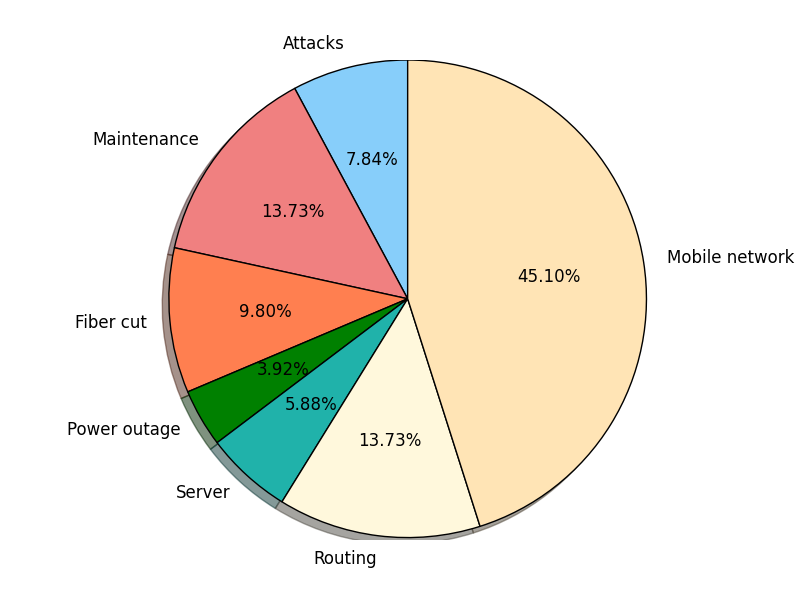
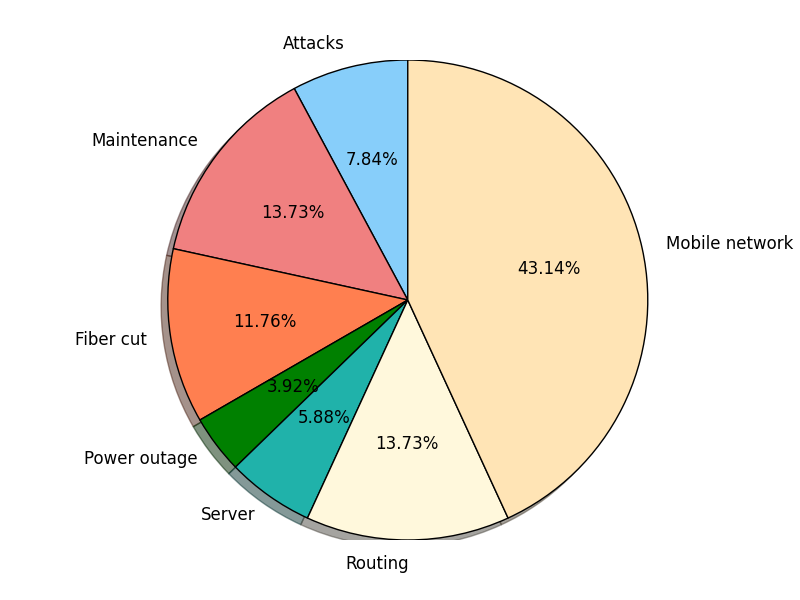
Site updated at 2015-05-07 03:51:13 UTC

diff --git a/members/index.html b/members/index.html
@@ -9,7 +9,7 @@
 
 <meta name="author" content="Guanyu Zhu, Wei-Ting Lin, Zhaowei Sun"> 
 
-<meta name="description" content="Team Members Guanyu Zhu &#x7a;&#x68;&#x75;&#103;&#x75;&#x61;&#110;&#121;&#x75;&#50;&#48;&#x31;&#48;&#64;&#103;&#109;&#97;&#105;&#108;&#x2e;&#99;&#x6f &hellip;"> <meta name="keywords" content="">
+<meta name="description" content="Team Members Guanyu Zhu &#122;&#x68;&#117;&#x67;&#117;&#x61;&#110;&#121;&#x75;&#50;&#48;&#49;&#x30;&#64;&#x67;&#x6d;&#x61;&#x69;&#x6c;&#46;&#99;&#111 &hellip;"> <meta name="keywords" content="">
 
 	<meta name="viewport" content="width=device-width, initial-scale=1, maximum-scale=1">
 	<link href="/fundamental_of_network/atom.xml" rel="alternate" title="CSE534 Fundamental of Network Project" type="application/atom+xml">
@@ -133,7 +133,7 @@ $(document).ready(
 
 <h3><strong><a href="http://www.cs.stonybrook.edu/~gzhu" style="color:black">Guanyu Zhu</a></strong></h3>
 
-<p><a href="mailto:zhuguanyu2010@gmail.com"><a href="&#109;&#x61;&#x69;&#108;&#x74;&#111;&#58;&#122;&#x68;&#117;&#103;&#117;&#97;&#110;&#121;&#x75;&#50;&#48;&#x31;&#48;&#x40;&#103;&#109;&#97;&#x69;&#x6c;&#46;&#x63;&#111;&#109;">&#x7a;&#x68;&#x75;&#103;&#x75;&#x61;&#110;&#121;&#x75;&#50;&#48;&#x31;&#48;&#64;&#103;&#109;&#97;&#105;&#108;&#x2e;&#99;&#x6f;&#x6d;</a></a></p>
+<p><a href="mailto:zhuguanyu2010@gmail.com"><a href="&#x6d;&#97;&#105;&#x6c;&#x74;&#x6f;&#x3a;&#122;&#104;&#117;&#103;&#x75;&#97;&#x6e;&#x79;&#x75;&#50;&#48;&#49;&#48;&#x40;&#x67;&#x6d;&#97;&#x69;&#x6c;&#46;&#99;&#x6f;&#109;">&#122;&#x68;&#117;&#x67;&#117;&#x61;&#110;&#121;&#x75;&#50;&#48;&#49;&#x30;&#64;&#x67;&#x6d;&#x61;&#x69;&#x6c;&#46;&#99;&#111;&#x6d;</a></a></p>
 
 <p height="300" style="margin-bottom: 5em;">
 Guanyu Zhu is currently a master student of Computer Science at Stony Brook University (01/2014-present). He completed his bachelor&#8217;s degree in Software Engineering from Jilin University(09/2009-06/2013).</br></br>
@@ -145,7 +145,7 @@ Apart from research and academics, He enjoys playing basketball, hiking and trav
 
 <h3><strong>Wei-Ting Lin</strong></h3>
 
-<p><a href="mailto:wei-ting.lin@stonybrook.edu"><a href="&#x6d;&#97;&#105;&#108;&#116;&#111;&#58;&#119;&#x65;&#x69;&#45;&#x74;&#x69;&#x6e;&#103;&#x2e;&#108;&#105;&#x6e;&#64;&#115;&#x74;&#111;&#110;&#x79;&#98;&#114;&#x6f;&#x6f;&#x6b;&#46;&#101;&#x64;&#x75;">&#119;&#x65;&#x69;&#45;&#116;&#105;&#110;&#103;&#x2e;&#x6c;&#x69;&#x6e;&#64;&#x73;&#x74;&#x6f;&#x6e;&#x79;&#98;&#x72;&#x6f;&#111;&#107;&#x2e;&#x65;&#x64;&#x75;</a></a></p>
+<p><a href="mailto:wei-ting.lin@stonybrook.edu"><a href="&#x6d;&#97;&#105;&#108;&#116;&#111;&#58;&#x77;&#x65;&#x69;&#x2d;&#116;&#x69;&#x6e;&#103;&#x2e;&#108;&#105;&#x6e;&#64;&#x73;&#116;&#x6f;&#110;&#x79;&#x62;&#x72;&#x6f;&#x6f;&#x6b;&#46;&#101;&#100;&#117;">&#119;&#101;&#x69;&#45;&#x74;&#105;&#x6e;&#x67;&#46;&#x6c;&#105;&#110;&#64;&#115;&#116;&#111;&#x6e;&#x79;&#98;&#114;&#111;&#x6f;&#x6b;&#x2e;&#x65;&#100;&#x75;</a></a></p>
 
 <p height="300" style="margin-bottom: 6em;">
 Wei-Ting Lin is currently a master student of Computer Science at Stony Brook University (01/2014-present). He gained his Bachelor degree in Southern Taiwan University at Information Science and Technology department in Taiwan(09/2006-06/2010).
@@ -156,7 +156,7 @@ Wei-Ting Lin is currently a master student of Computer Science at Stony Brook Un
 
 <h3><strong>Zhaowei Sun</strong></h3>
 
-<p><a href="mailto:zhaowei.sun@stonybrook.edu"><a href="&#x6d;&#x61;&#105;&#108;&#x74;&#111;&#x3a;&#x7a;&#104;&#x61;&#x6f;&#119;&#x65;&#105;&#x2e;&#115;&#117;&#110;&#64;&#x73;&#116;&#x6f;&#110;&#x79;&#x62;&#114;&#x6f;&#111;&#x6b;&#46;&#x65;&#100;&#x75;">&#122;&#x68;&#97;&#111;&#119;&#101;&#105;&#46;&#x73;&#117;&#x6e;&#64;&#x73;&#x74;&#111;&#x6e;&#x79;&#98;&#x72;&#x6f;&#111;&#x6b;&#46;&#101;&#100;&#117;</a></a></p>
+<p><a href="mailto:zhaowei.sun@stonybrook.edu"><a href="&#x6d;&#97;&#x69;&#108;&#x74;&#x6f;&#x3a;&#x7a;&#x68;&#x61;&#x6f;&#119;&#x65;&#105;&#46;&#x73;&#117;&#110;&#x40;&#115;&#x74;&#111;&#110;&#121;&#98;&#114;&#x6f;&#111;&#x6b;&#46;&#x65;&#100;&#117;">&#122;&#104;&#x61;&#x6f;&#x77;&#x65;&#105;&#46;&#115;&#117;&#x6e;&#64;&#115;&#116;&#111;&#x6e;&#x79;&#x62;&#114;&#111;&#x6f;&#107;&#46;&#x65;&#100;&#117;</a></a></p>
 
 <p height="300" style="margin-bottom: 8em;">
 Zhaowei Sun is a master student of Computer Science at Stony Brook University (01/2014-present). He completed  Bachelor’s degree in Computational Mathematics from University of Science and Technology Beijing(09/2006-06/2010) and Master’s degree in Computer Science from University of Science and Technology Beijing(09/2010-01/2013).<br/><br/>Apart from research and academics, Zhaowei enjoys playing basketball, watching movie and traveling. 

diff --git a/realtime/index.html b/realtime/index.html
@@ -163,7 +163,7 @@ $(document).ready(
 </tr>
 <tr>
 <td> Fiber cut </td>
-<td> 5  </td>
+<td> 6  </td>
 </tr>
 <tr>
 <td> Power outage </td>
@@ -205,16 +205,43 @@ $(document).ready(
 
 <ul>
 <li><h4>Time: 05/06/2015</h4></li>
-<li><h4>Source Email:</h4>
+<li><h4>Source Email:</h4></li>
+</ul>
 
-<p>The Wikimedia Foundation servers are currently experiencing technical difficulties.The problem is most likely temporary and will hopefully be fixed soon.Please check back in a few minutes.For further information, you can visit the #wikipedia channel on the Freenode IRC network.In the meantime, you may be able to view Google&rsquo;s cached version of this page.Wikipedia is now one of the most visited sites on the Internet by traffic andcontinues to grow, and as a result the Wikimedia Foundation has a constant needto purchase new hardware. If you would like to help, please donate.RegardsPeter and Karin Dambier</p></li>
+
+<p>Philly area Broadwing / Focal / Level3 fiber cut?
+I cannot even call their toll-free help lines, as the figer cut apparently
+is affecting that as well, according to their local NOC people, who cannot
+chd any more light on this.</p>
+
+<p>I suprisingly just found that I can connect to my colo servers there if I
+first ssh to a server I have in germany.  However, traceroutes from here
+(comcast) stop here:</p>
+
+<ul>
 <li><h4>TraceRoute:</h4></li>
 </ul>
 
 
-<p>1     2 ms     1 ms     1 ms  <a href="http://rr.pmtpa.wikimedia.org">http://rr.pmtpa.wikimedia.org</a> [66.230.200.100]<br>  2     *        *        *     Request timed out.  <br>3    10 ms     *       12 ms  ge-1-16-ur06.<a href="http://sanjose.ca.sfba.comcast.net">http://sanjose.ca.sfba.comcast.net</a> [68.86.248.93]  <br>4    14 ms    11 ms     *     te-5-3-ar01.<a href="http://oakland.ca.sfba.comcast.net">http://oakland.ca.sfba.comcast.net</a> [68.87.226.229]  <br>5    11 ms    11 ms    13 ms  68.87.226.134   <br>6    13 ms    12 ms    12 ms  12.117.240.85    <br>7    12 ms    26 ms    37 ms  <a href="http://tbr1012801.sffca.ip.att.net">http://tbr1012801.sffca.ip.att.net</a> [12.123.12.49]  <br>  8    14 ms    12 ms    14 ms  <a href="http://ggr3-ge10.sffca.ip.att.net">http://ggr3-ge10.sffca.ip.att.net</a> [12.122.82.57]   <br>9    23 ms    23 ms    24 ms  <a href="http://att-gw.sanfran.level3.net">http://att-gw.sanfran.level3.net</a> [192.205.33.78]  <br> 10    14 ms    17 ms    22 ms  <a href="http://ae-2-56.bbr2.SanJose1.Level3.net">http://ae-2-56.bbr2.SanJose1.Level3.net</a> [4.68.123.161]   <br>11   120 ms   123 ms   179 ms  <a href="http://as-2-0.mp2.Tampa1.Level3.net">http://as-2-0.mp2.Tampa1.Level3.net</a> [64.159.3.218]  <br> 12    93 ms    95 ms    91 ms  <a href="http://ae-23-56.car3.Tampa1.Level3.net">http://ae-23-56.car3.Tampa1.Level3.net</a> [4.68.104.171]   <br>13   109 ms    91 ms    90 ms  <a href="http://e1-11-level3.co2.tpax.as30217.net">http://e1-11-level3.co2.tpax.as30217.net</a> [4.71.0.10] <br>   14     *        *     <sup>C</sup>     <br></p>
+<p> 5  po-70-ar01.ivyland.pa.panjde.comcast.net (68.86.208.145)  13.165 ms 7.634 ms  17.193 ms <br>
+ 6  po-10-ar01.401nbroadst.pa.panjde.comcast.net (68.86.208.33)  9.913 ms 7.899 ms  13.856 ms <br>
+ 7  12.118.114.49 (12.118.114.49)  18.673 ms  113.943 ms  201.091 ms <br>
+ 8  tbr1-p012301.phlpa.ip.att.net (12.123.137.210)  22.029 ms  16.856 ms 14.122 ms <br>
+ 9  tbr1-cl8.n54ny.ip.att.net (12.122.2.17)  15.477 ms  20.529 ms  21.079 ms <br>
+10  ggr1-p330.n54ny.ip.att.net (12.123.0.81)  21.812 ms  13.032 ms  13.623 ms <br>
+11  att-gw.ny.broadwing.net (192.205.32.106)  17.127 ms  16.489 ms  12.97 ms <br>
+12  s0-3-0.c1.nwyk.broadwing.net (216.140.10.193)  15.672 ms  17.7 ms 12.865 ms <br>
+13  so7-0-0.a1.nwaknj.broadwing.net (216.140.8.198)  32.475 ms  17.576 ms 13.366 ms <br>
+14  g1-2-0.core2.jfk.foc.broadwing.net (216.140.10.110)  23.748 ms  17.769 ms  18.252 ms <br>
+15  * * * <br>
+16  * * * <br></p>
 
-<h4>Predict Categary:</h4>
+<ul>
+<li><h4>Predict Categary:</h4>
+
+<p><strong>Fiber Cut</strong></p></li>
+</ul>
+
 
 <hr />
 </div>
